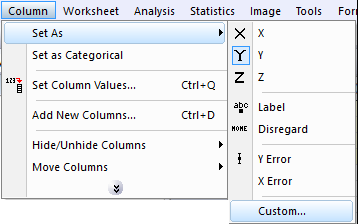
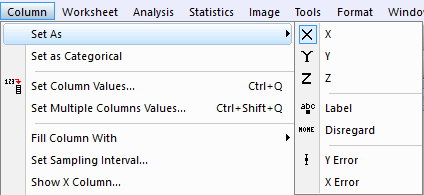
modify input data & column properties

Changed region(s): [[0.0, 0.0, 1.0, 1.0]]

diff --git a/Section1 白东升01-09数据窗口编辑/Section1.3 Input data and column properties.md b/Section1 白东升01-09数据窗口编辑/Section1.3 Input data and column properties.md
@@ -1,0 +1,41 @@
+# Input data & column properties
+
+## Input data
+
+<kbd>Enter</kbd>切换焦点到下面的cell,
+<kbd>Tab</kbd>切换焦点到右面的cell;
+
+Origin默认32行2列，可以在最后一行按 <kbd>↓</kbd> 来增加新行
+
+可以在一个cell的右下角拖动**Cross**来复制数据
+
+## Column Properties
+
+Add New Columns: <kbd>Ctrl</kbd>+<kbd>D</kbd>
+
+9 column properties: X, Y, Z, Label, Disregard, Y Error, X Error, Group, Subject
+> G: Group; S: Subject. 很少用到
+
+Column/Set As: 
+> ![](res/column01.png)
+> ![](res/column02.png)
+
+Label: 给每个数据点添加标签
+
+> ![](res/column04-label.png)
+
+如果选择多列，Context Menu/Set As会出现其他的选项，方便同时设置多列的类型, 比如XYXY, XYY
+
+Worksheet Properties: <kbd>F4</kbd>
+
+> ![](res/column06.png)
+> ![](res/column07.png)
+
+在workbook添加Sampling Interval行方法:
+- 如上文的<kbd>F4</kbd>
+- ContextMenu/View/Sampling Interval
+
+选择某一个**Y**列, Column/Set Sampling Interval
+> ![](res/column09.png)
+
+绘图的时候，会使用这时的**起点**和**间隔**来作为X坐标，而不使用左侧的**X**列
